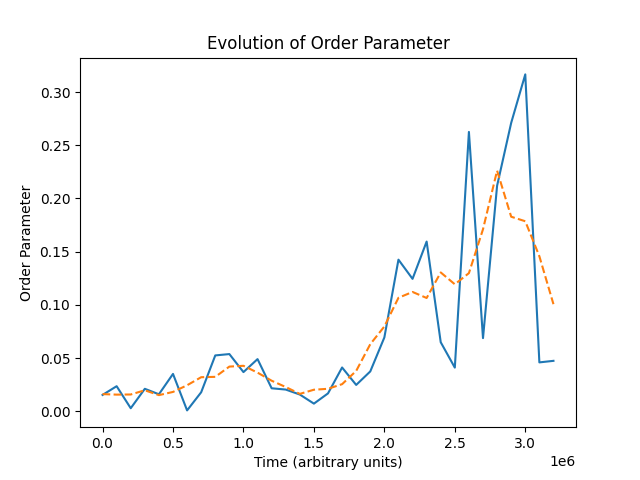
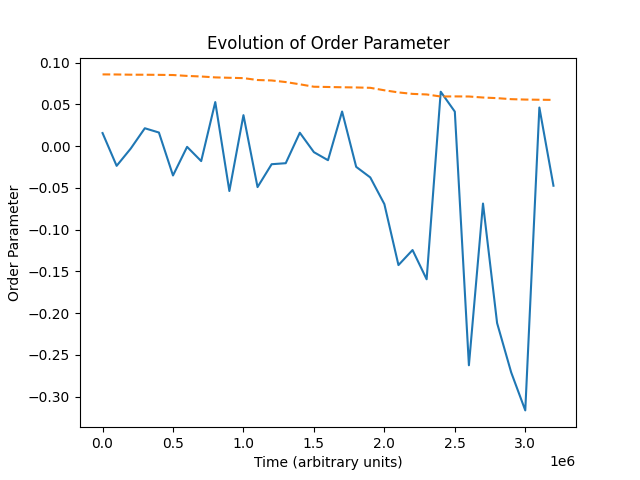
Director Data Collection

diff --git a/Phase_Structure/Rigid_Rods2/longrun1/director_plot.py b/Phase_Structure/Rigid_Rods2/longrun1/director_plot.py
@@ -2,7 +2,7 @@ import numpy as np
 import matplotlib.pyplot as plt
 from scipy.ndimage import uniform_filter1d  # for rolling average
 
-file_root = "output_T_0.5_time_"  # two underscores to match typo in previous code
+file_root = "output_T_0.5__time_"  # two underscores to match typo in previous code
 sampling_freq = 1  # only samples one in X files (must be integer)
 
 # READ PARAMETER VALUES FROM LOG FILE
@@ -58,7 +58,7 @@ print(
     + str((N_molecules, run_time, dump_interval))
 )
 
-# time_range = range(0, 3300000, 100000)  # FOR SIMPLICITY IN TESTING
+# time_range = range(0, 500, 100)  # FOR SIMPLICITY IN TESTING
 
 # DEFINE FUNCTION TO FIND DIRECTOR FROM OUTPUT DATA
 def order_param(data):
@@ -118,7 +118,7 @@ for i, time in enumerate(time_range):  # interate over dump files
     order_param_values[i] = order_param(rod_positions)  # evaluate order param at time t
     print("T = " + str(time) + "/" + str(run_time))
 
-plt.plot(time_range, (order_param_values))
+plt.plot(time_range, abs(order_param_values))
 plt.plot(
     time_range,
     uniform_filter1d(abs(order_param_values), size=int(1e2)),
@@ -127,6 +127,6 @@ plt.plot(
 plt.xlabel("Time (arbitrary units)")
 plt.ylabel("Order Parameter")
 plt.title("Evolution of Order Parameter")
-plt.savefig("director_evo2.png")
+#plt.savefig("director_evo.png")
 plt.show()
 
